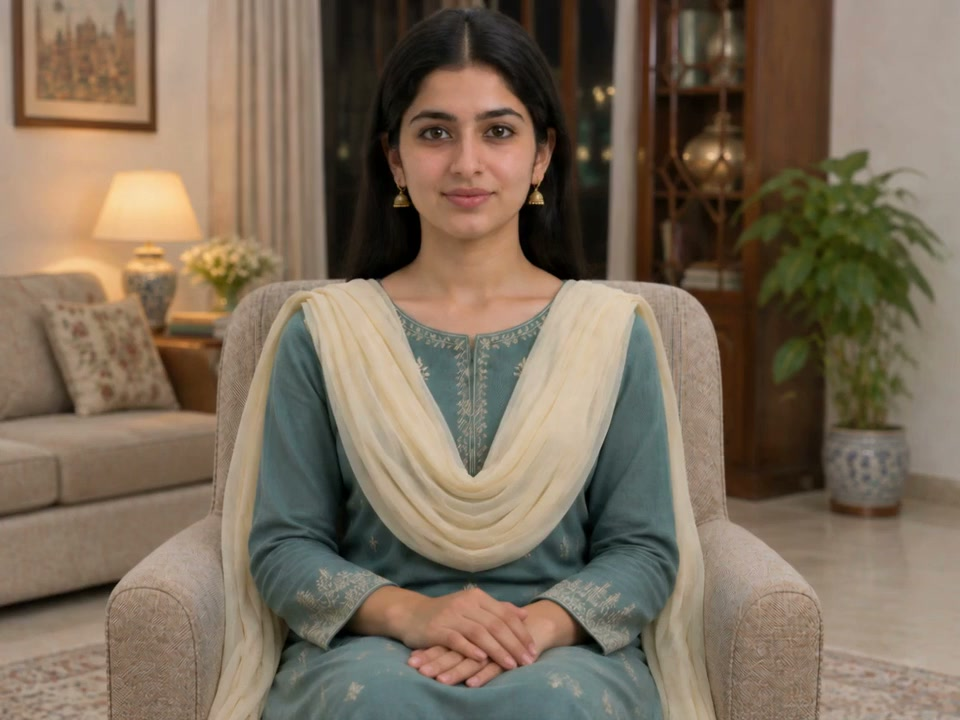
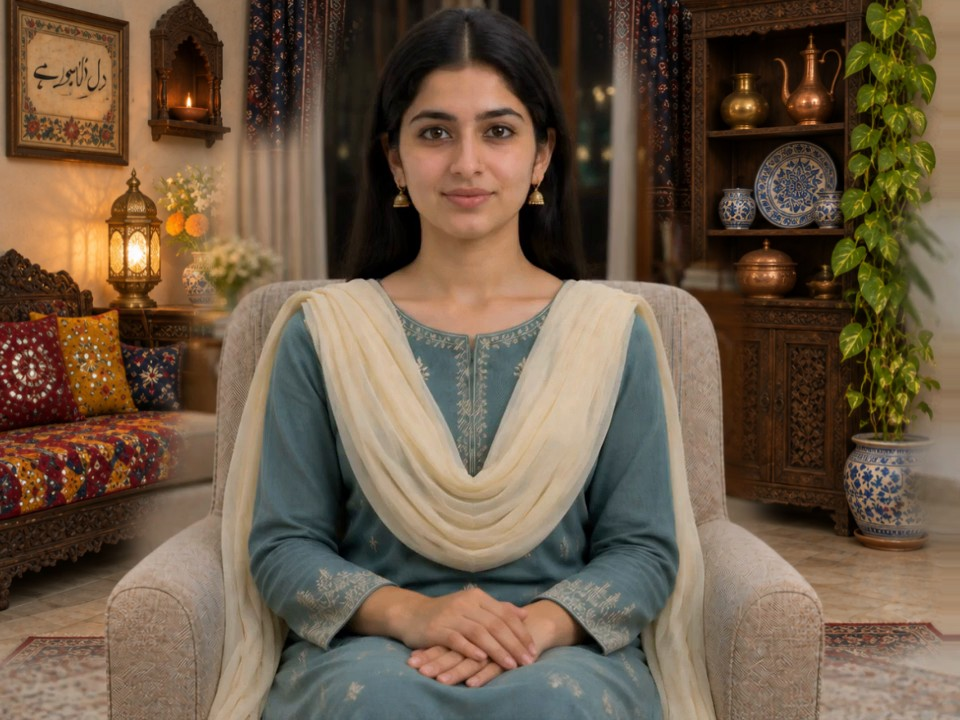
A Pakistani drawing room behind her, without filming her again
The user asked for a Pakistani-style place that is completely stable.
The room is now a still picture laid over the video outside her zone,
so it can be changed by changing that picture: fit_room.py takes a
picture of her in the redecorated room (made from the same still: an
Urdu calligraphy frame, a niche with an oil lamp, a brass lantern, a
carved sheesham sofa with ralli cushions, a cabinet of copper and blue
Multani pottery, ajrak curtains), lines it up on her and the chair, and
joins it to the old room a little way out from her zone. The clips, the
box and the lip sync are untouched.

diff --git a/avatar-build/video/units/fit_room.py b/avatar-build/video/units/fit_room.py
@@ -1,0 +1,100 @@
+#!/usr/bin/env python
+"""Puts another room behind her without filming her again.
+
+    python fit_room.py NEW_ROOM.png [--write]
+
+The page shows the room as one still picture (room.webp) laid over the video everywhere outside
+the zone she moves in. So the room can be changed by changing that picture, as long as the new
+room is the old one right at the edge of her zone, where picture and video meet.
+
+NEW_ROOM is a picture of her in the redecorated room, made from the same still (same camera,
+same chair, same pose). It is brought to 960x720, lined up with the old room on her and the chair
+(a shift and a small change of size are allowed for), and joined to the old room: the old room
+stays in her zone and a little way round it, the new room takes over further out, with a soft
+blend between. Without --write it only saves previews next to NEW_ROOM; with it, it writes
+public/avatar/video/room.webp and poster.jpg (the old ones are kept in ../rooms as
+*.before-<stem>; the room she was filmed in is ../rooms/room.original.webp).
+"""
+import os
+import shutil
+import subprocess
+import sys
+
+import cv2
+import numpy as np
+
+HERE = os.path.dirname(os.path.abspath(__file__))
+WEB = os.path.join(HERE, "..", "..", "..", "public", "avatar", "video")
+W, H = 960, 720
+
+
+def first_frame(path):
+    raw = subprocess.run(["ffmpeg", "-v", "error", "-i", path, "-frames:v", "1", "-pix_fmt", "bgr24",
+                          "-f", "rawvideo", "-"], capture_output=True, check=True).stdout
+    return np.frombuffer(raw, np.uint8).reshape(H, W, 3)
+
+
+def main():
+    new_path = sys.argv[1]
+    write = "--write" in sys.argv
+    stem = os.path.splitext(os.path.basename(new_path))[0]
+
+    # The room as it is now, and her zone (clear in room.webp).
+    room_file = os.path.join(WEB, "room.webp")
+    rooms = os.path.join(HERE, "..", "rooms")
+    os.makedirs(rooms, exist_ok=True)
+    original = os.path.join(rooms, "room.original.webp")
+    if not os.path.exists(original):
+        shutil.copy(room_file, original)          # the room she was filmed in, kept for good
+    old = cv2.imread(original, cv2.IMREAD_UNCHANGED)
+    zone = 1 - old[..., 3].astype(np.float32) / 255            # 1 where the video shows
+    rest = first_frame(os.path.join(WEB, "units", "listen_still.mp4")).astype(np.float32)   # her, at rest
+
+    new = cv2.imread(new_path)
+    new = cv2.resize(new, (W, H), interpolation=cv2.INTER_AREA).astype(np.float32)
+
+    # Line the new picture up with the old one on her and the chair.
+    core = (zone > 0.98).astype(np.uint8)
+    a = cv2.cvtColor(rest.astype(np.uint8), cv2.COLOR_BGR2GRAY).astype(np.float32) / 255
+    b = cv2.cvtColor(new.astype(np.uint8), cv2.COLOR_BGR2GRAY).astype(np.float32) / 255
+    warp = np.eye(2, 3, dtype=np.float32)
+    try:
+        _, warp = cv2.findTransformECC(a, b, warp, cv2.MOTION_AFFINE,
+                                       (cv2.TERM_CRITERIA_EPS | cv2.TERM_CRITERIA_COUNT, 200, 1e-6), core, 5)
+    except cv2.error as err:
+        print("could not line the pictures up:", err)
+    fitted = cv2.warpAffine(new, warp, (W, H), flags=cv2.INTER_LINEAR + cv2.WARP_INVERSE_MAP,
+                            borderMode=cv2.BORDER_REPLICATE)
+    inside = core.astype(bool)
+    print("shift x %.1f, y %.1f pixels; size %.3f, %.3f" % (warp[0, 2], warp[1, 2], warp[0, 0], warp[1, 1]))
+    print("her and the chair, new against old (mean difference, levels): before lining up %.1f, after %.1f"
+          % (np.abs(new - rest)[inside].mean(), np.abs(fitted - rest)[inside].mean()))
+
+    # The old room stays in her zone and a little way round it; further out the new one takes over.
+    near = cv2.dilate((zone > 0.02).astype(np.uint8), np.ones((33, 33), np.uint8)).astype(np.float32)
+    keep = cv2.GaussianBlur(near, (0, 0), 14)[..., None]
+    old_room = old[..., :3].astype(np.float32)
+    plate = keep * old_room + (1 - keep) * fitted
+    # How well do the two rooms agree where they are blended?
+    band = (keep[..., 0] > 0.1) & (keep[..., 0] < 0.9)
+    print("in the blend between the rooms they differ by %.1f levels on average (small = no seam)"
+          % np.abs(fitted - old_room)[band].mean())
+
+    shown = zone[..., None] * rest + (1 - zone[..., None]) * plate          # what the page shows at rest
+    base = os.path.join(os.path.dirname(os.path.abspath(new_path)), stem)
+    cv2.imwrite(base + "-page.jpg", shown.astype(np.uint8), [cv2.IMWRITE_JPEG_QUALITY, 93])
+    cv2.imwrite(base + "-fitted.jpg", fitted.astype(np.uint8), [cv2.IMWRITE_JPEG_QUALITY, 90])
+
+    if write:
+        for name in ("room.webp", "poster.jpg"):
+            path = os.path.join(WEB, name)
+            if os.path.exists(path):
+                shutil.copy(path, os.path.join(rooms, f"{name}.before-{stem}"))
+        room = np.dstack([np.clip(plate, 0, 255).astype(np.uint8), old[..., 3]])
+        cv2.imwrite(room_file, room, [cv2.IMWRITE_WEBP_QUALITY, 92])
+        cv2.imwrite(os.path.join(WEB, "poster.jpg"), shown.astype(np.uint8), [cv2.IMWRITE_JPEG_QUALITY, 90])
+        print("written: room.webp and poster.jpg")
+
+
+if __name__ == "__main__":
+    main()
